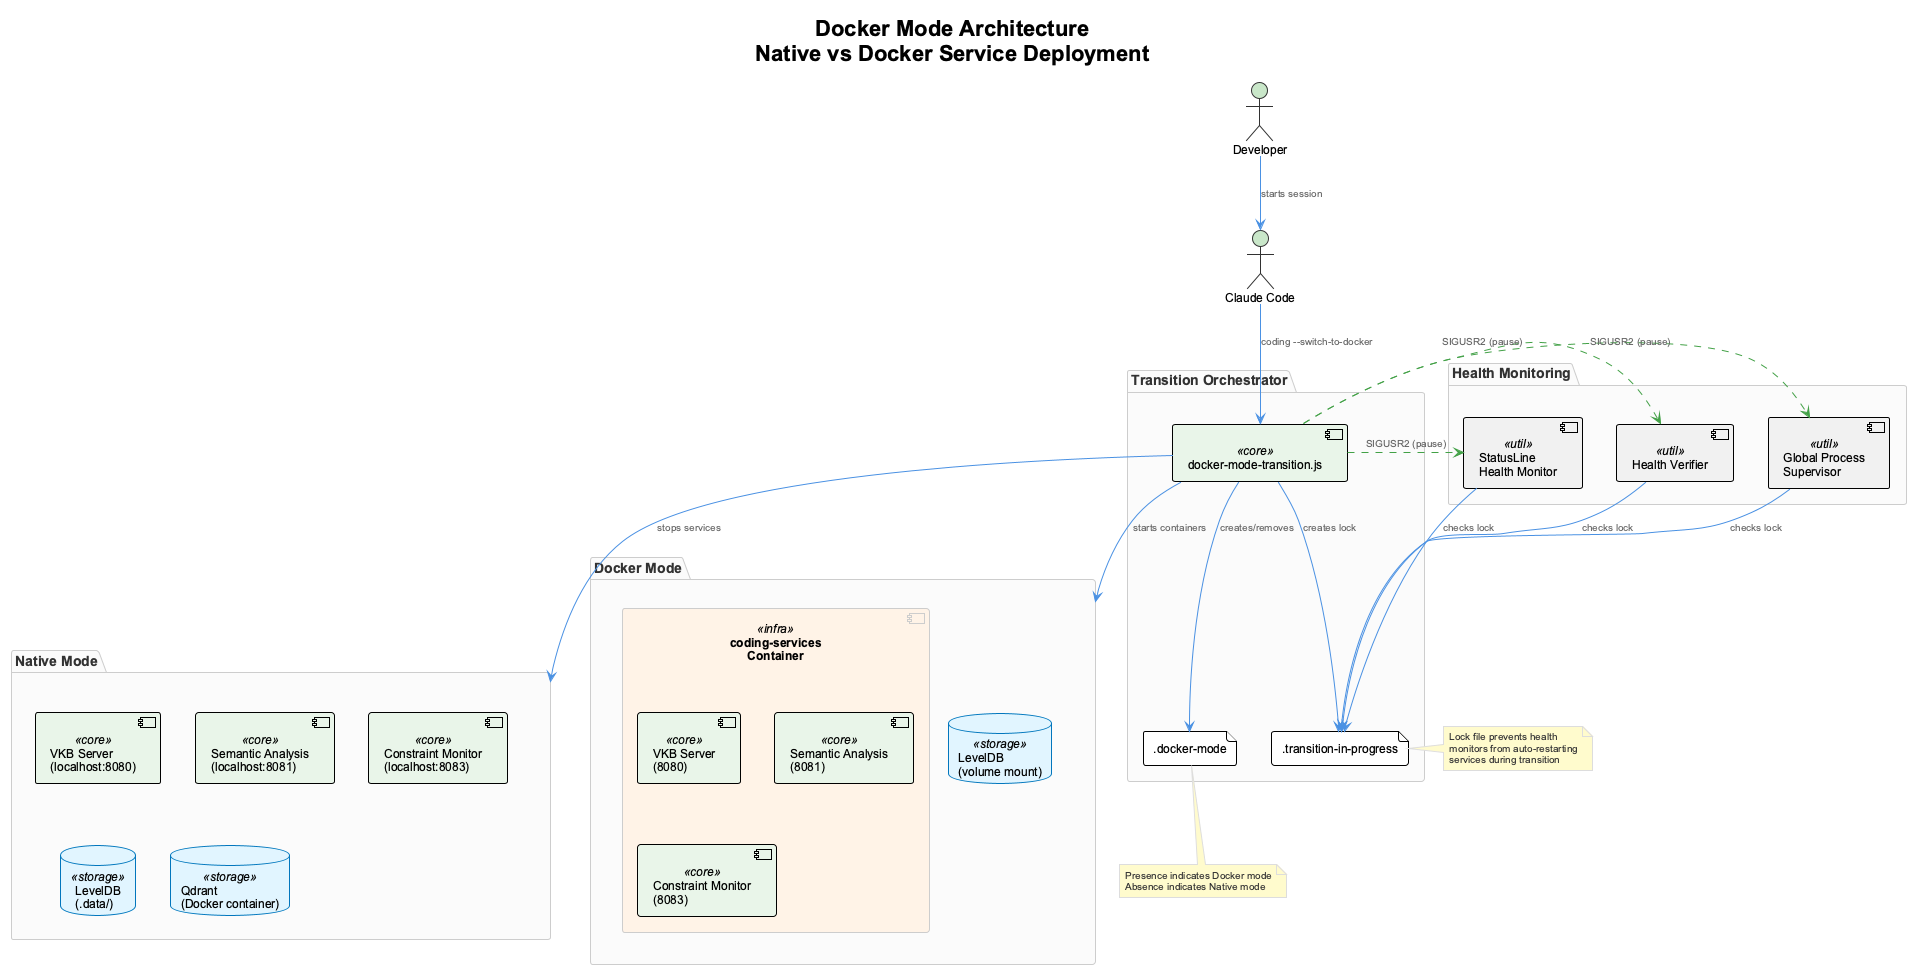
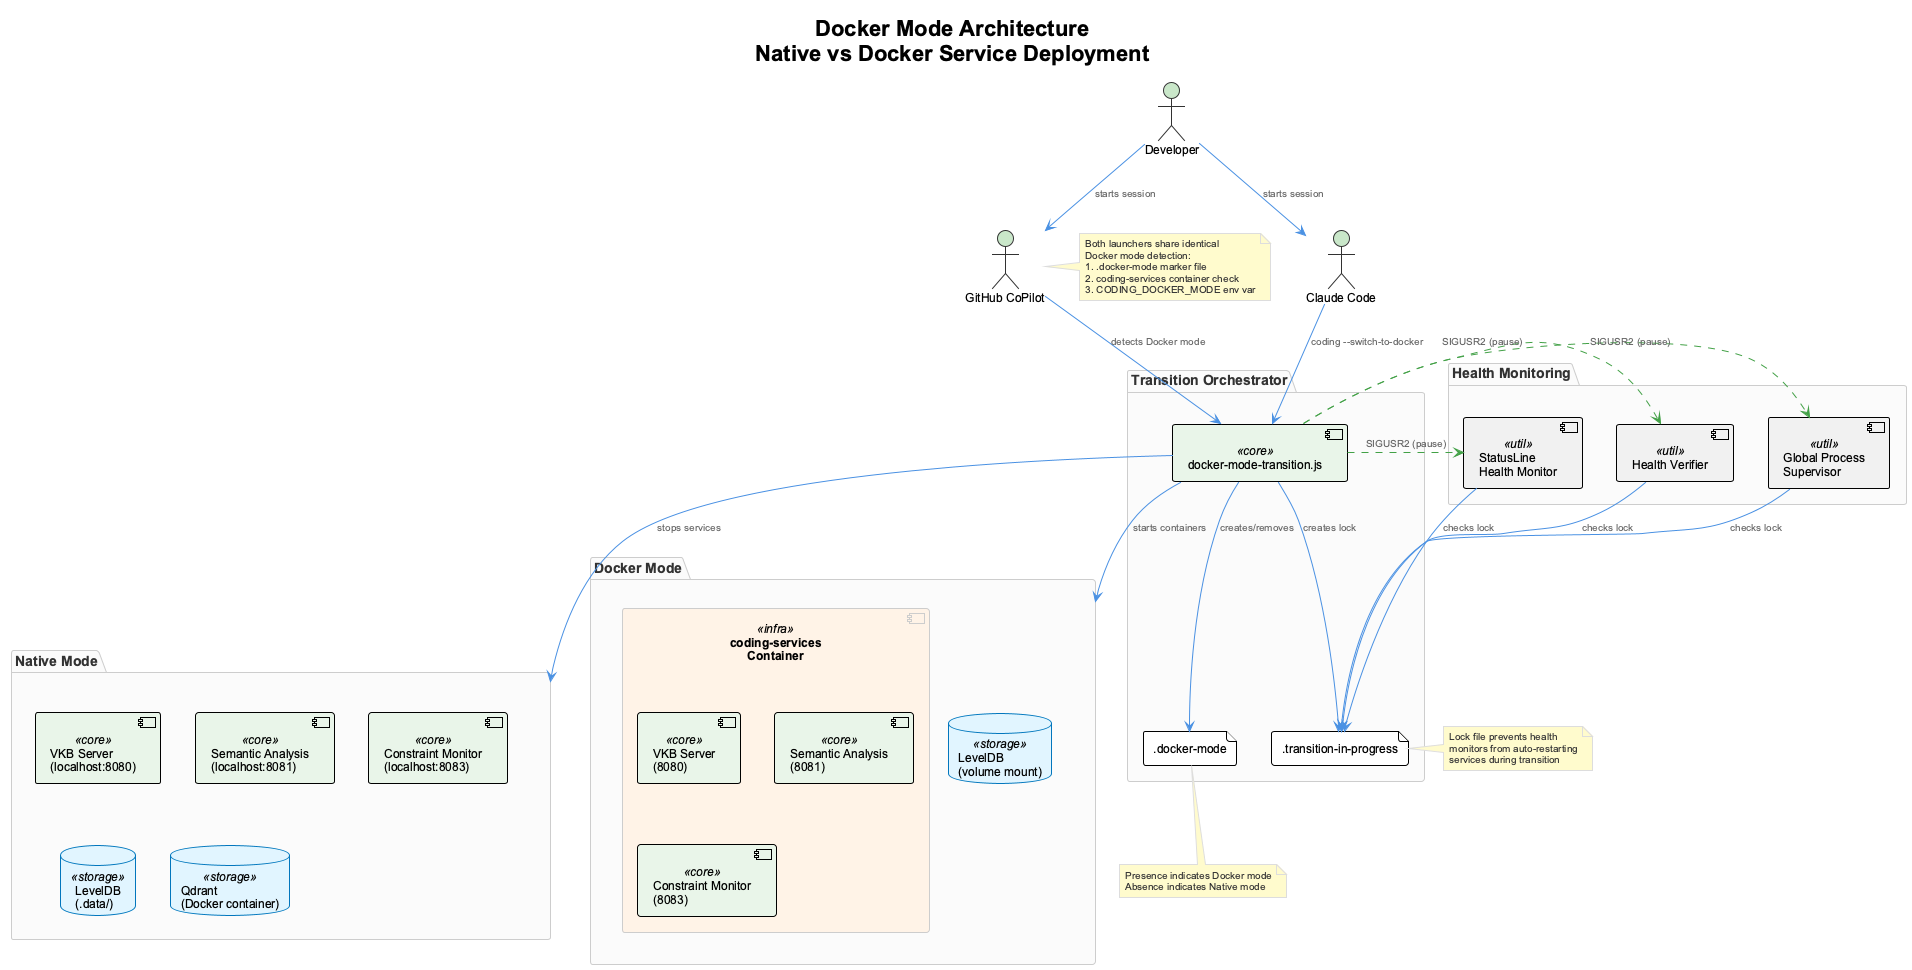
docs: updated after docker/generalization (claude/copi)

diff --git a/docs/agent-integration-guide.md b/docs/agent-integration-guide.md
@@ -53,8 +53,20 @@ When integrating a new agent:
 1. Agent detection checks availability
 2. Registry provides adapter instance
 3. Launcher sources common setup
-4. Services start (shared infrastructure)
-5. Agent launches with full integration
+4. Docker mode detection (3-tier: marker file, container check, env var)
+5. Services start (Docker compose or native, based on mode)
+6. Agent launches with full integration
+
+### Launcher Docker Mode Flow
+
+![Launcher Docker Mode Flow](../images/launcher-docker-mode-flow.png)
+
+Both `launch-claude.sh` and `launch-copilot.sh` share identical Docker mode logic:
+- Transition lock checking (waits for mode transitions)
+- 3-tier Docker mode detection
+- Conditional Docker/native service startup
+- Container reuse (health check before starting new containers)
+- Docker MCP config generation
 
 ---
 
@@ -90,7 +102,9 @@ You must implement the `AgentAdapter` interface (see [API Contract](#api-contrac
 #### 4. **Launcher Script**
 Create `scripts/launch-{agent}.sh` that:
 - Sources `agent-common-setup.sh`
-- Starts shared services
+- Checks transition lock (Docker mode transitions)
+- Detects Docker mode (`.docker-mode` marker, running containers, env var)
+- Starts shared services (Docker compose or native, based on mode)
 - Calls `agent_common_init()`
 - Launches your agent
 
@@ -187,11 +201,13 @@ Create `scripts/launch-myagent.sh`:
 #!/bin/bash
 
 # Launch My Agent with integrated services
+# Supports both native and Docker modes
 
 set -e
 
 SCRIPT_DIR="$(cd "$(dirname "${BASH_SOURCE[0]}")" && pwd)"
 CODING_REPO="$(dirname "$SCRIPT_DIR")"
+export CODING_REPO
 
 # Source agent-common setup functions
 source "$SCRIPT_DIR/agent-common-setup.sh"
@@ -199,6 +215,38 @@ source "$SCRIPT_DIR/agent-common-setup.sh"
 log() {
   echo "[MyAgent] $1"
 }
+
+# ============================================
+# Docker Mode Transition Check
+# ============================================
+check_transition_lock() {
+  local lock_file="$CODING_REPO/.transition-in-progress"
+  local wait_count=0
+  local max_wait=60
+  while [ -f "$lock_file" ] && [ $wait_count -lt $max_wait ]; do
+    if [ $wait_count -eq 0 ]; then
+      log "⏳ Docker mode transition in progress, waiting..."
+    fi
+    sleep 1
+    ((wait_count++))
+  done
+}
+check_transition_lock
+
+# ============================================
+# Docker Mode Detection
+# ============================================
+DOCKER_MODE=false
+if [ -f "$CODING_REPO/.docker-mode" ]; then
+  DOCKER_MODE=true
+fi
+if timeout 5 docker ps --format '{{.Names}}' 2>/dev/null | grep -q "coding-services"; then
+  DOCKER_MODE=true
+fi
+if [ "$CODING_DOCKER_MODE" = "true" ]; then
+  DOCKER_MODE=true
+fi
+export CODING_DOCKER_MODE="$DOCKER_MODE"
 
 # Generate unique session ID
 SESSION_ID="myagent-$$-$(date +%s)"
@@ -222,48 +270,25 @@ cleanup_session() {
 
 trap cleanup_session EXIT INT TERM
 
-# Verify monitoring systems
-verify_monitoring_systems() {
-  local target_project="$1"
-  log "🔐 MANDATORY: Verifying monitoring systems..."
+# ... (monitoring verification, target project setup, env loading) ...
 
-  if node "$SCRIPT_DIR/monitoring-verifier.js" --project "$target_project" --strict; then
-    log "✅ MONITORING VERIFIED: Systems operational"
-    return 0
+# Docker Auto-Start (shared logic)
+source "$SCRIPT_DIR/ensure-docker.sh"
+detect_platform
+
+# Start Services (Docker or Native mode)
+if [ "$DOCKER_MODE" = true ]; then
+  # Docker mode: reuse coding-services container
+  if curl -sf http://localhost:8080/health >/dev/null 2>&1; then
+    log "✅ coding-services already running - reusing"
   else
-    log "❌ MONITORING FAILED: Critical systems not operational"
-    exit 1
+    docker compose -f "$CODING_REPO/docker/docker-compose.yml" up -d
+    # ... health check loop ...
   fi
-}
-
-# Determine target project directory
-if [ -n "$CODING_PROJECT_DIR" ]; then
-  TARGET_PROJECT_DIR="$CODING_PROJECT_DIR"
 else
-  TARGET_PROJECT_DIR="$CODING_REPO"
+  # Native mode: start-services.sh
+  "$CODING_REPO/start-services.sh"
 fi
-
-# Register session
-register_session
-
-# Load environment
-if [ -f "$CODING_REPO/.env" ]; then
-  set -a
-  source "$CODING_REPO/.env"
-  set +a
-fi
-
-# Start shared services
-log "Starting coding services..."
-if ! "$CODING_REPO/start-services.sh"; then
-  log "Error: Failed to start services"
-  exit 1
-fi
-
-sleep 2
-
-# Verify monitoring
-verify_monitoring_systems "$TARGET_PROJECT_DIR"
 
 # Run agent-common initialization (LSL, monitoring, gitignore, etc.)
 agent_common_init "$TARGET_PROJECT_DIR" "$CODING_REPO"
@@ -606,6 +631,10 @@ See `lib/adapters/claude-mcp.js` and `scripts/launch-claude.sh` for reference im
 See `lib/adapters/copilot.js` and `scripts/launch-copilot.sh` for reference implementation.
 
 **Key features:**
+- Full Docker mode support (identical to Claude launcher)
+- Transition lock checking and Docker mode detection
+- Docker/Native conditional service startup
+- Container reuse (detects already-running coding-services)
 - Fallback services (Graphology, Playwright)
 - HTTP adapter server for tool integration
 - GitHub CLI verification

diff --git a/docs/health-system/robust-startup-system.md b/docs/health-system/robust-startup-system.md
@@ -84,10 +84,24 @@ If these fail after all retries → **Claude startup blocked with clear error**
 #### Optional Services (Degrade gracefully if failed)
 
 1. **VKB Server** - Knowledge visualization (port 8080)
-2. **Constraint Monitor** - Live guardrails system
+2. **Constraint Monitor** - Live guardrails system (Docker mode aware)
 3. **Semantic Analysis** - MCP semantic analysis server
+4. **Memgraph** - Code Graph RAG AST analysis (Docker mode aware)
 
 If these fail after all retries → **Continue in DEGRADED mode with warning**
+
+#### Docker Mode Awareness
+
+When `CODING_DOCKER_MODE=true` (set by both `launch-claude.sh` and `launch-copilot.sh`), `start-services-robust.js` automatically skips launching standalone containers that are already provided by the `coding-services` Docker container:
+
+- **Constraint Monitor**: Skips `docker-compose up -d` for standalone Redis + Qdrant containers (they run inside `coding-services` as `coding-redis` and `coding-qdrant`)
+- **Memgraph**: Skips `docker-compose up -d` for standalone Memgraph container (runs inside `coding-services`)
+
+This prevents duplicate containers, port conflicts (both bind 6379, 6333), and ~540MB wasted RAM. Health checks in Docker mode verify the `coding-services` health endpoint or TCP port instead of counting standalone containers.
+
+![Launcher Docker Mode Flow](../images/launcher-docker-mode-flow.png)
+
+*Figure: Unified Docker mode flow shared by both Claude and CoPilot launchers*
 
 ## Pre-Startup Cleanup
 
@@ -430,6 +444,7 @@ const SERVICE_CONFIGS = {
 - `ROBUST_MODE=true` - Enable robust startup (default)
 - `ROBUST_MODE=false` - Use legacy startup mode
 - `VKB_DATA_SOURCE=combined` - Data source for VKB server
+- `CODING_DOCKER_MODE=true` - Skip standalone containers already in coding-services
 
 ## Benefits
 
@@ -484,12 +499,18 @@ lsof -i :8080
 # Check Docker status
 docker info
 
-# Check constraint monitor containers
+# Docker mode: containers are inside coding-services
+docker ps --filter "name=coding"
+
+# Native mode: check standalone constraint-monitor containers
 docker ps --filter "name=constraint-monitor"
 
-# Check docker-compose logs
+# Check docker-compose logs (native mode only)
 cd integrations/mcp-constraint-monitor
 docker-compose logs
+
+# Verify Docker mode detection
+echo $CODING_DOCKER_MODE
 ```
 
 ### Services Keep Failing
@@ -642,10 +663,12 @@ Comprehensive end-to-end tests validate all environment combinations via `tests/
 ## References
 
 - `lib/service-starter.js` - Core retry logic module
-- `scripts/start-services-robust.js` - Service orchestrator
+- `scripts/start-services-robust.js` - Service orchestrator (Docker mode aware)
 - `start-services.sh` - Entry point script
 - `scripts/ensure-docker.sh` - Docker auto-start and recovery
 - `scripts/detect-network.sh` - Corporate network and proxy detection
 - `scripts/agent-common-setup.sh` - Shared agent initialization
+- `scripts/launch-claude.sh` - Claude launcher (Docker mode detection & startup)
+- `scripts/launch-copilot.sh` - CoPilot launcher (Docker mode detection & startup)
 - `tests/integration/launcher-e2e.sh` - E2E test suite
 - `memory-visualizer/api-server.py` - VKB health endpoint implementation

diff --git a/docs/docker-mode-transition.md b/docs/docker-mode-transition.md
@@ -239,7 +239,9 @@ If health monitors remain paused after transition:
 | `scripts/health-verifier.js` | Modified to respect transition lock |
 | `scripts/global-process-supervisor.js` | Modified to respect transition lock |
 | `scripts/statusline-health-monitor.js` | Shows transition status, skips healing |
-| `scripts/launch-claude.sh` | Waits for transition before startup |
+| `scripts/launch-claude.sh` | Waits for transition, Docker mode detection & startup |
+| `scripts/launch-copilot.sh` | Waits for transition, Docker mode detection & startup |
+| `scripts/start-services-robust.js` | Docker mode awareness (skips duplicate containers) |
 | `bin/coding` | CLI commands for mode switching |
 
 ## API for Programmatic Use
@@ -297,7 +299,7 @@ Claude Code ←→ stdio-proxy.js ←→ SSE Server (Docker container)
 - **Docker config**: `claude-code-mcp-docker.json` - Uses stdio-proxy with SSE URLs
 - **Native config**: `claude-code-mcp-processed.json` - Direct Node.js execution
 
-The `CODING_DOCKER_MODE` environment variable is set by `launch-claude.sh` and read by `claude-mcp-launcher.sh` to select the appropriate configuration.
+The `CODING_DOCKER_MODE` environment variable is set by both `launch-claude.sh` and `launch-copilot.sh`, and read by `claude-mcp-launcher.sh` to select the appropriate configuration. In Docker mode, `start-services-robust.js` also reads this variable to skip launching standalone containers (Constraint Monitor Redis/Qdrant, Memgraph) that are already provided by the `coding-services` container.
 
 ## Related Documentation
 
